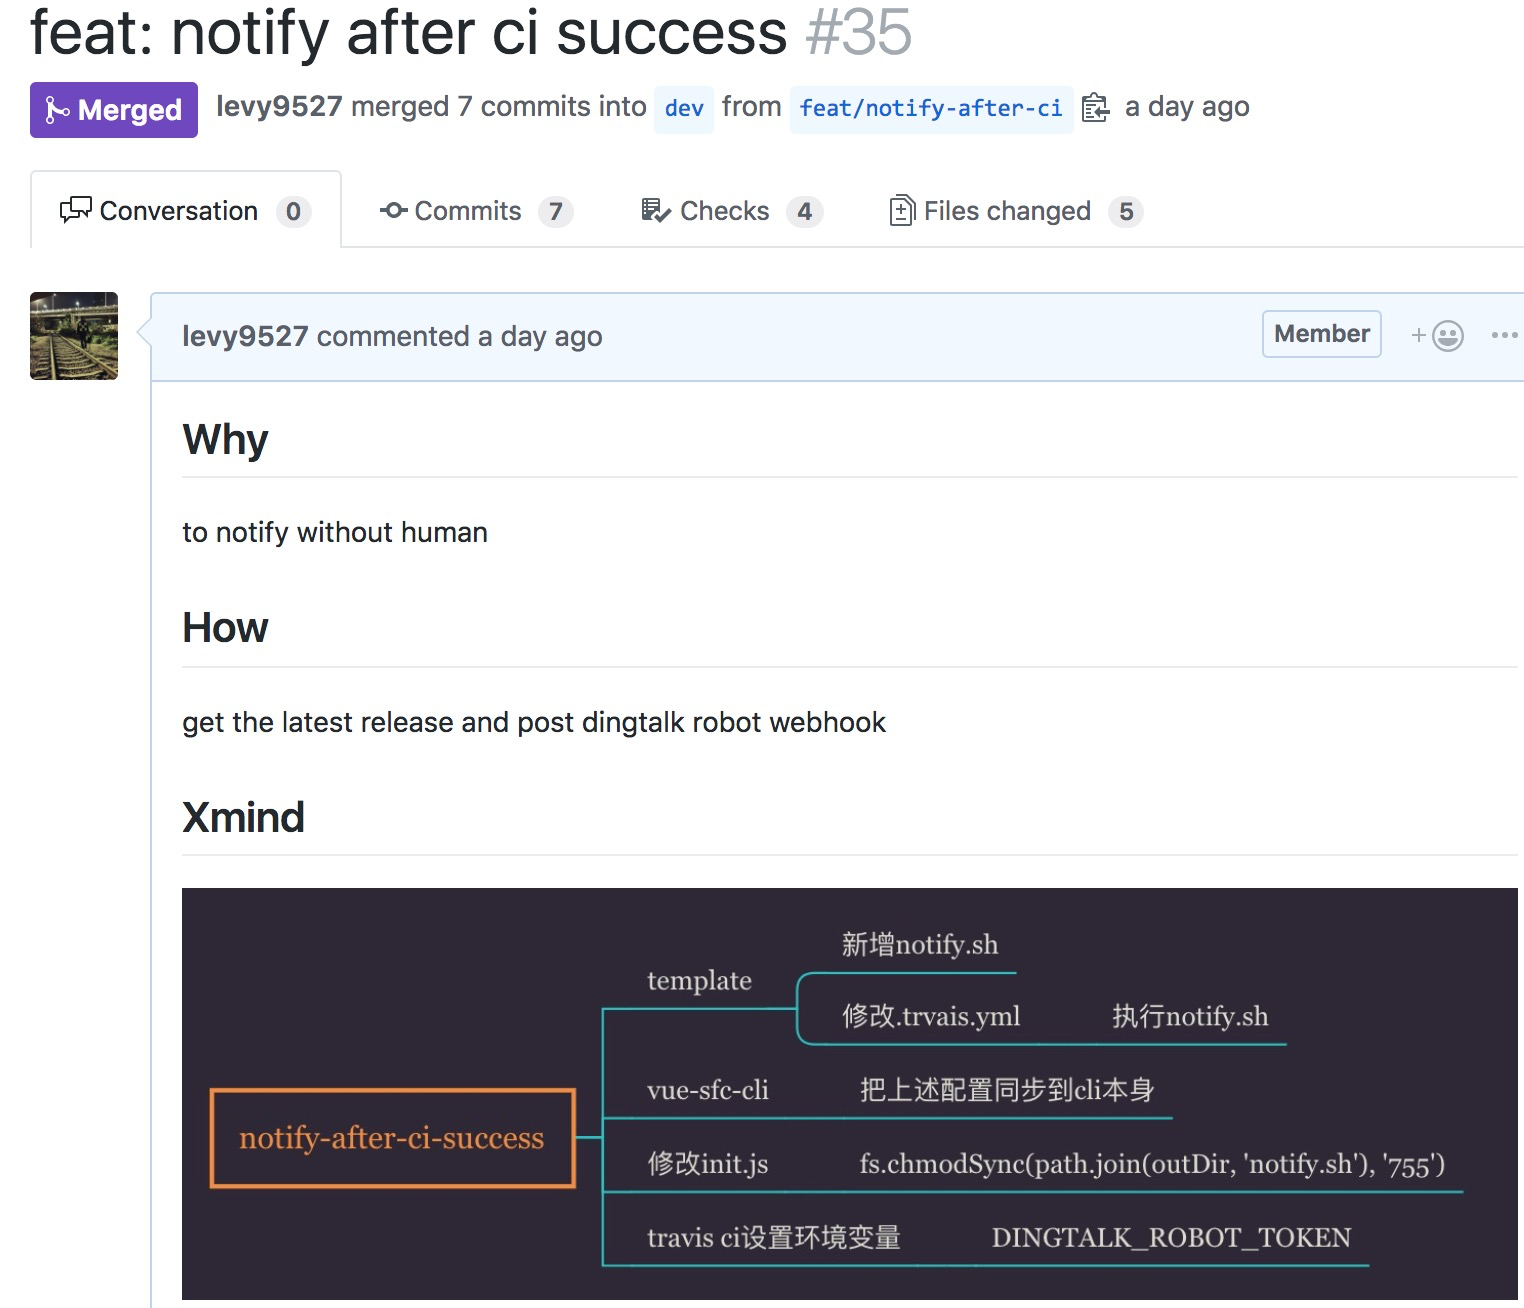
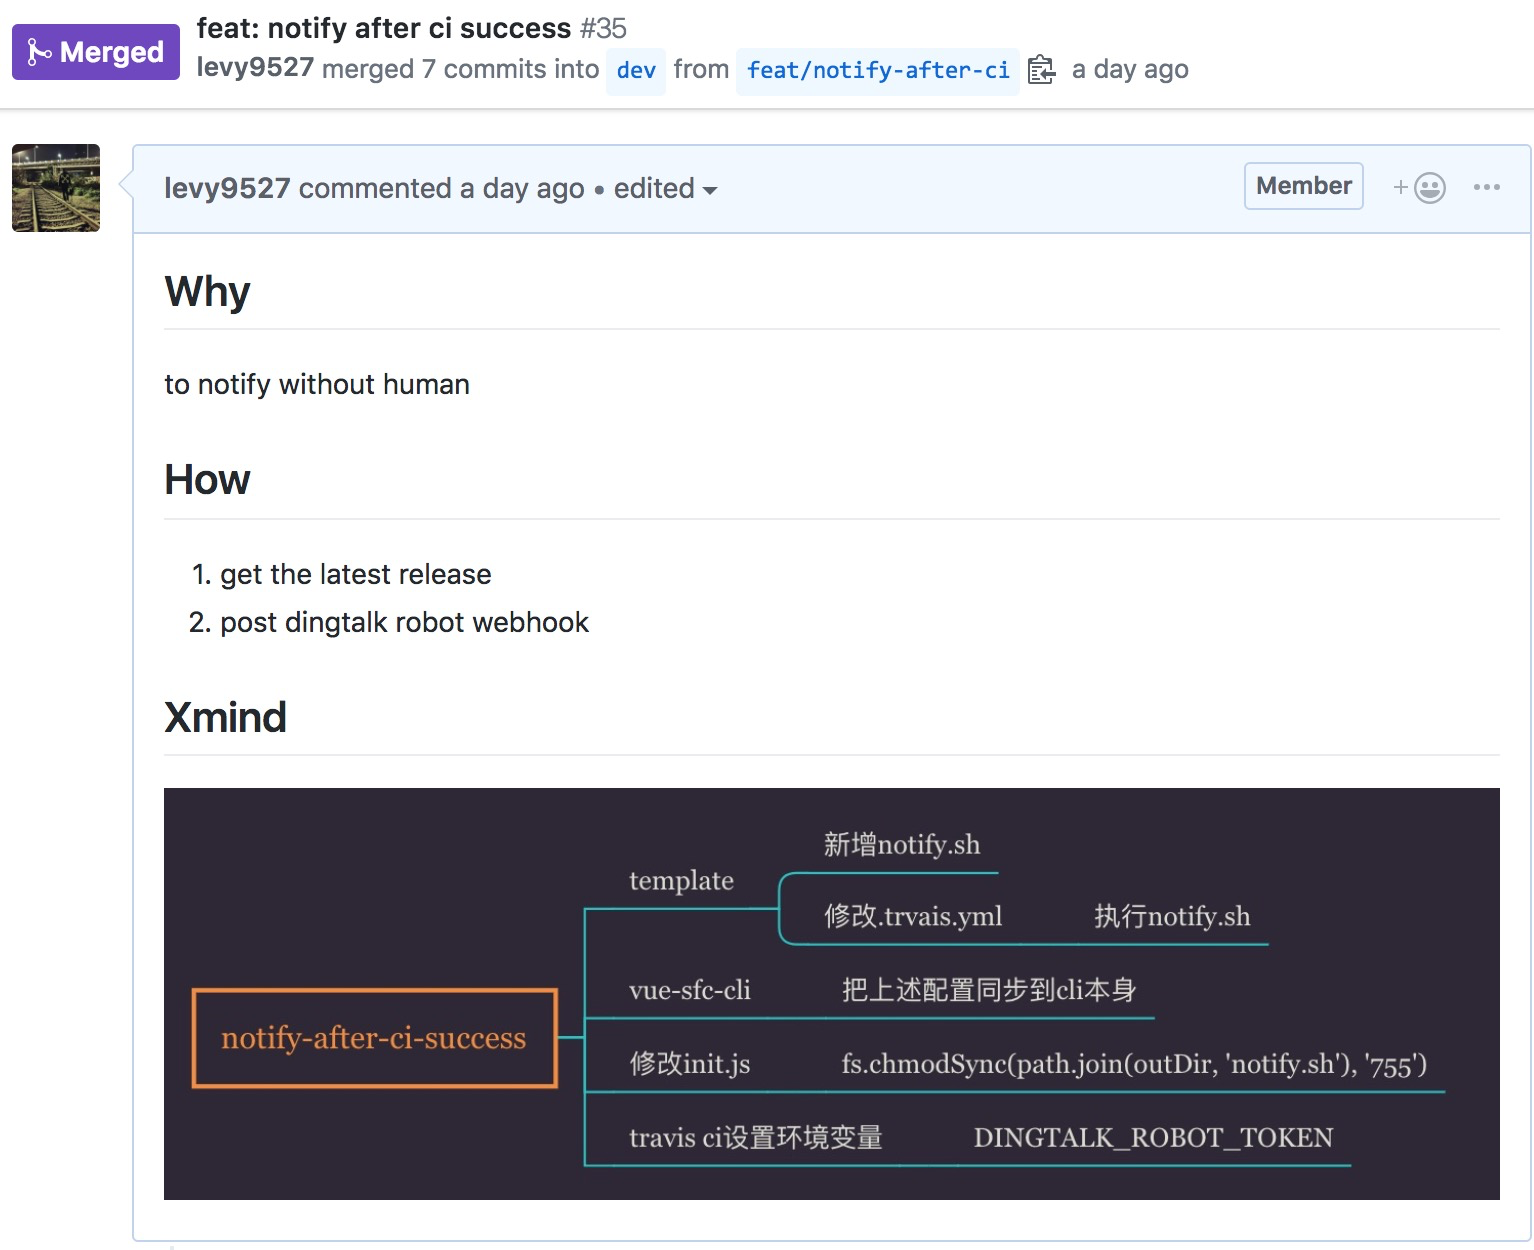
完善pr模板

diff --git a/git-best-pratices.md b/git-best-pratices.md
@@ -14,10 +14,10 @@
 
 下面是好的示例，回答了三个点:
 - Why：为什么这样做
-- How：总体思路
+- How：说明思路及操作步骤
 - Xmind：相关脑图，体现细节(流程图也可以)
 
-![image-20190513135910902](assets/image-20190513135910902.png)
+![image-20190513142522614](assets/image-20190513135910902.png)
 
 [PR链接](https://github.com/FEMessage/vue-sfc-cli/pull/35)
 
